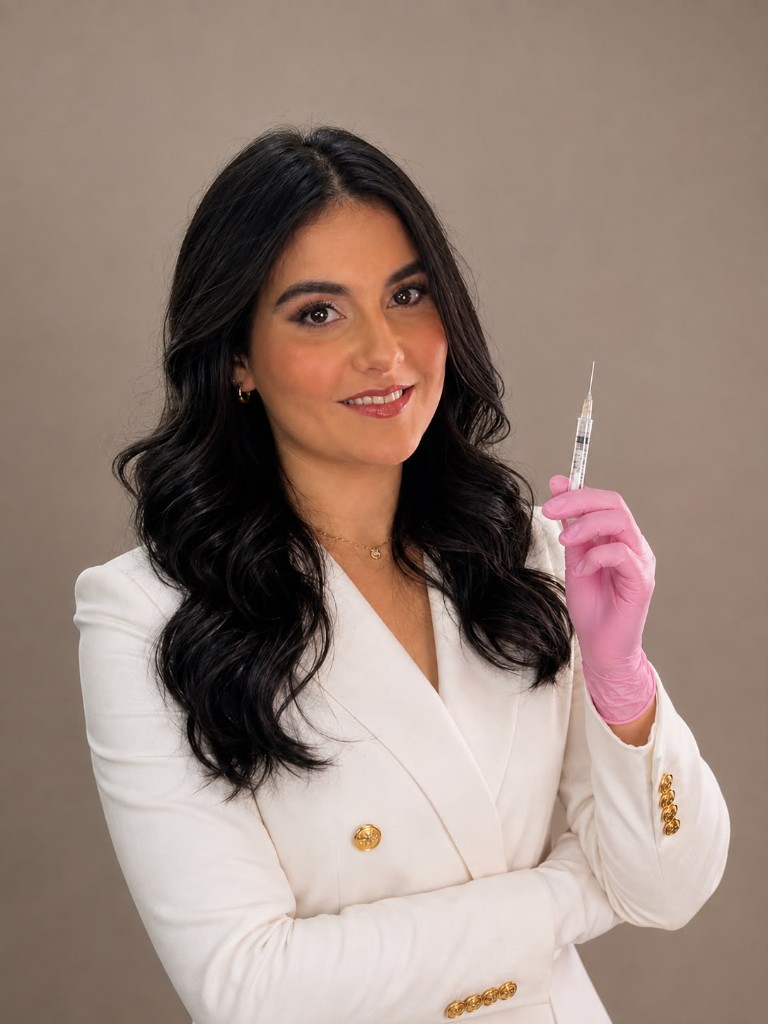
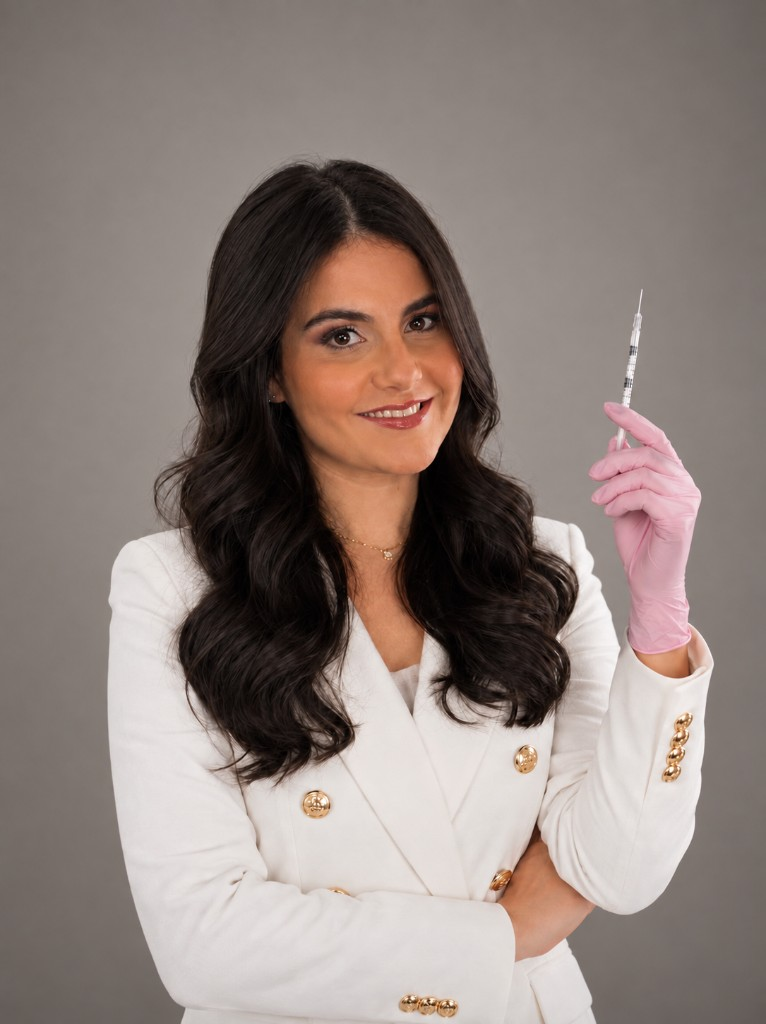
ajuste de foto

diff --git a/src/app/layout.tsx b/src/app/layout.tsx
@@ -4,7 +4,9 @@ import { SITE } from '../content'
 import { TrackingProvider } from '../components/TrackingProvider'
 import './globals.css'
 
-const siteUrl = process.env.NEXT_PUBLIC_SITE_URL ?? 'http://localhost:3000'
+// Constante em vez de variável de ambiente: NEXT_PUBLIC_* é embutida no build,
+// e o .env do compose só existe em tempo de execução.
+const siteUrl = SITE.url
 
 const description =
   'Avaliação estética facial individualizada para suavizar linhas de expressão preservando a naturalidade. Atendimento em Ribeirão Preto.'

diff --git a/src/components/About.tsx b/src/components/About.tsx
@@ -8,7 +8,7 @@ export function About() {
         <div className={styles.portraitFrame}>
           <img
             src="/profissional.png"
-            alt={`${PROFESSIONAL.name}, ${PROFESSIONAL.title}, em seu ambiente de atendimento`}
+            alt={`${PROFESSIONAL.name}, ${PROFESSIONAL.title}`}
             width={800}
             height={1000}
           />

diff --git a/src/content.ts b/src/content.ts
@@ -15,6 +15,8 @@ export const PROFESSIONAL = {
 
 export const SITE = {
   brand: 'Danti Bezerra',
+  /** URL canônica, usada como base para Open Graph e metadata. */
+  url: 'https://dantibezerraestetica.com.br',
   /** Título principal (h1) da landing. */
   title: 'Em busca da sua melhor versão',
   /** Linha dourada logo abaixo do h1. */
